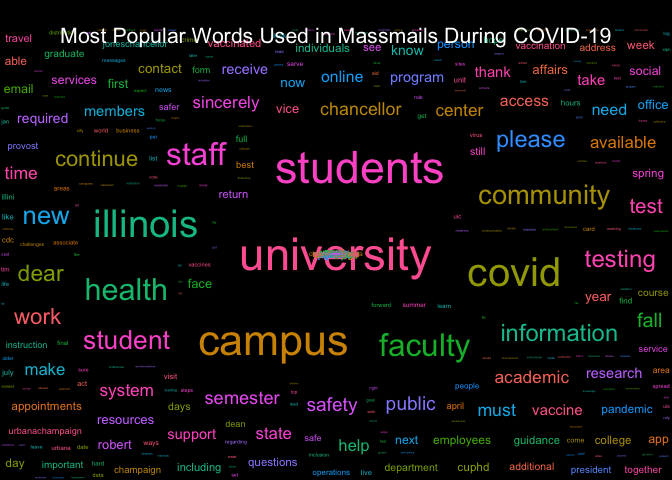
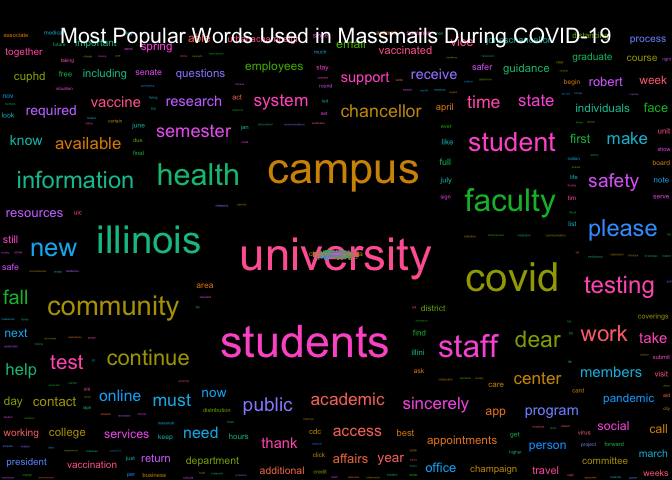
Re-build README.Rmd and Graphs

diff --git a/README.md b/README.md
@@ -17,7 +17,7 @@ The archive may be viewed here:
 
 <https://massmail.illinois.edu/massmailArchive>
 
-Data has **833** observations and **7** variables:
+Data has **834** observations and **7** variables:
 
   - `datetime`: Date and time when the email was sent in the form of
     `YYYY-MM-DD HMS` with either CDT or CST.
@@ -208,18 +208,18 @@ head(most_popular_words, 10) %>%
   knitr::kable(row.names = FALSE)
 ```
 
-| word        | freq |
-| :---------- | ---: |
-| university  | 1481 |
-| students    | 1332 |
-| campus      | 1230 |
-| covid       |  968 |
-| illinois    |  959 |
-| faculty     |  777 |
-| community   |  759 |
-| health      |  696 |
-| staff       |  644 |
-| information |  604 |
+| word       | freq |
+| :--------- | ---: |
+| university | 1482 |
+| students   | 1339 |
+| campus     | 1241 |
+| covid      |  968 |
+| illinois   |  960 |
+| faculty    |  778 |
+| community  |  763 |
+| health     |  696 |
+| staff      |  645 |
+| student    |  613 |
 
 #### Wordcloud
 
